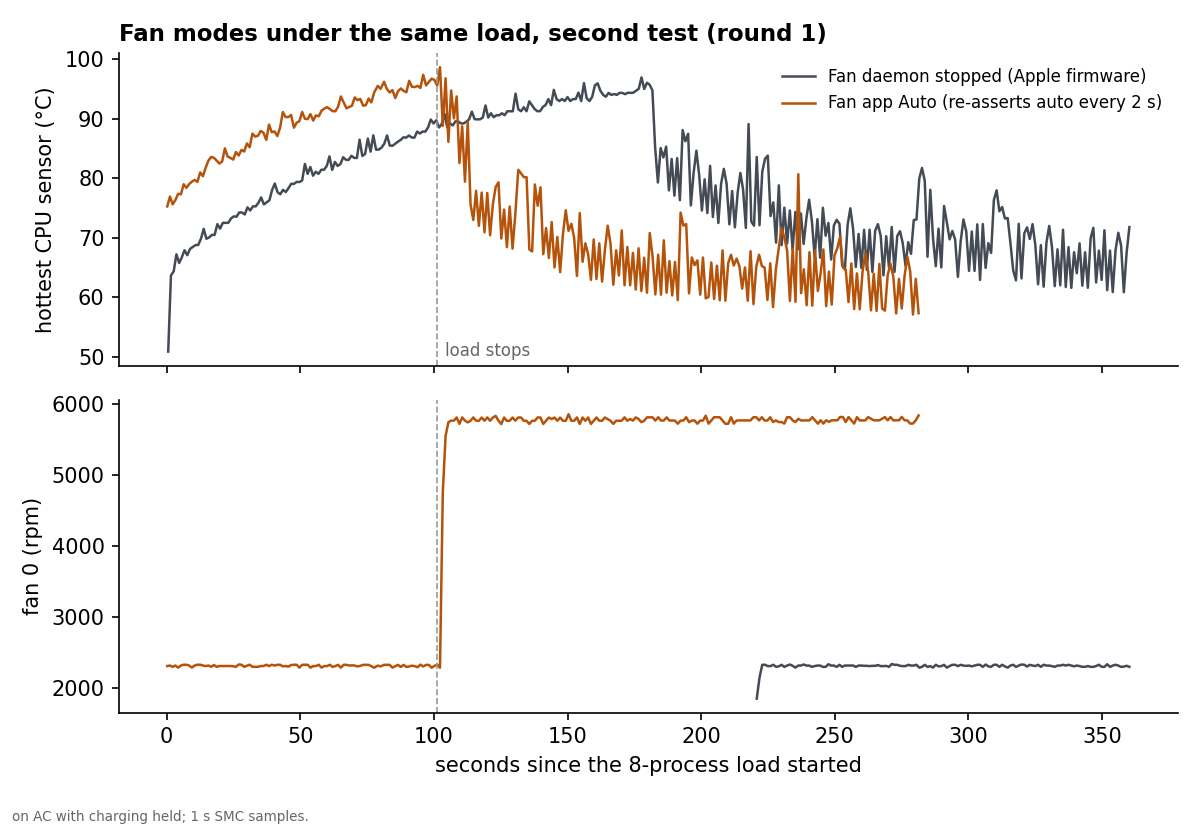
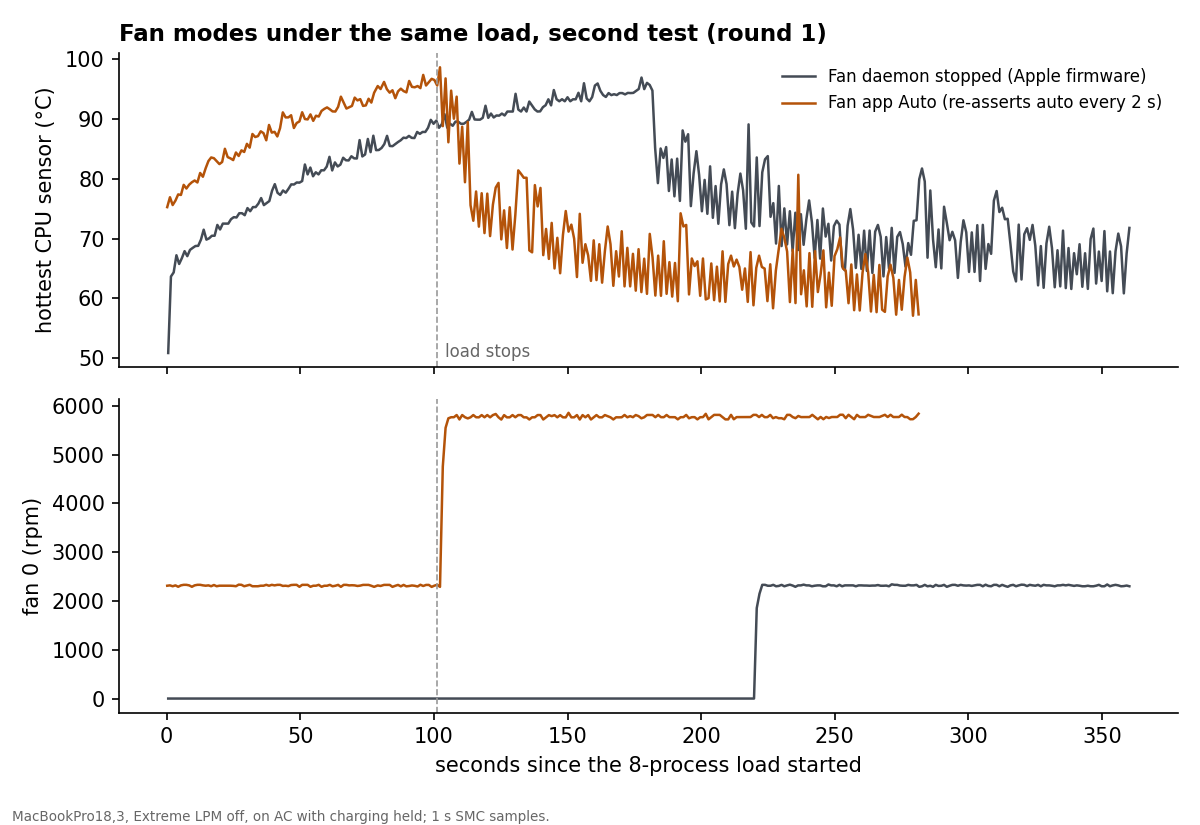
Commit the chart scripts and figures the article uses
- analyze.py: footer "Mean of 3 rounds", system-power title without "display state mixed",
  P-cluster chart without the 8-job group, P-core-share legend off the bars
- battery_analyze.py: n= label above the error bar
- fan_analyze.py: plot 0 rpm readings, footer without MacFanCtl, firmware-test title and label
- job_time.py: single-job time chart with Extreme shown per round
- report/figures: the article's versions (regenerating from these scripts reproduces them byte for byte)

diff --git a/benchmarks/analyze.py b/benchmarks/analyze.py
@@ -219,7 +219,7 @@ def get(sc, c, k):
 # ---------- charts ----------
 plt.rcParams.update({"font.size": 10, "axes.spines.top": False, "axes.spines.right": False, "figure.dpi": 150})
 N = max((s_["n"] for s_ in summary), default=0)
-NOTE = f"MacBookPro18,3 (M1 Pro 8P+2E), macOS 26.6.2, on AC with charging held, fans fixed at max. n = rounds per bar; error bars = SD."
+NOTE = f"MacBookPro18,3 (M1 Pro 8P+2E), macOS 26.6.2, on AC with charging held, fans fixed at max. Mean of 3 rounds; error bars = SD."
 
 
 def bars(sc, k, title, ylabel, fname, fmt="{:.2f}", scale=1.0):
@@ -274,7 +274,7 @@ for sc in ("bg_single", "bg_multi"):
 bars("bg_multi", "lat_p95_ms", "Timer-wakeup latency of an eligible process, p95 (8 jobs running)", "ms late", "bg_multi_latency_p95.png", "{:.1f}")
 
 # grouped: one metric across scenarios, three bars per scenario
-def grouped(k, ylabel, title, fname, scenarios=("idle", "sustained8", "bg_single", "bg_multi"), fmt="{:.1f}", scale=1.0):
+def grouped(k, ylabel, title, fname, scenarios=("idle", "sustained8", "bg_single", "bg_multi"), fmt="{:.1f}", scale=1.0, legend_kw={}):
     scs = [sc for sc in scenarios if any(get(sc, c, k) for c in ORDER)]
     if not scs:
         return
@@ -291,17 +291,18 @@ def grouped(k, ylabel, title, fname, scenarios=("idle", "sustained8", "bg_single
                     color="#222" if h else "#999", rotation=0 if h else 90)
     ax.set_xticks(range(len(scs))); ax.set_xticklabels([{"idle": "idle (apps open)", "sustained8": "8 jobs, 90 s",
         "bg_single": "1 job (fixed work)", "bg_multi": "8 jobs (fixed work)"}.get(sc, sc) for sc in scs])
-    ax.set_ylabel(ylabel); ax.set_title(title, loc="left", fontsize=11, fontweight="bold"); ax.legend(frameon=False, fontsize=8)
+    ax.set_ylabel(ylabel); ax.set_title(title, loc="left", fontsize=11, fontweight="bold"); ax.legend(frameon=False, fontsize=8, **legend_kw)
     fig.text(0.01, 0.01, NOTE, fontsize=6.5, color="#666"); fig.tight_layout(rect=(0, 0.04, 1, 1))
     fig.savefig(os.path.join(FIG, fname)); plt.close(fig)
 
 
-grouped("system_w", "W (SMC PSTR)", "Total system power by scenario (all windows; display state mixed)", "all_system_power.png")
+grouped("system_w", "W (SMC PSTR)", "Total system power by scenario", "all_system_power.png")
 grouped("system_w_dispon", "W (SMC PSTR)", "Total system power by scenario, display on", "all_system_power_display_on.png")
 grouped("system_w_dispoff", "W (SMC PSTR)", "Total system power by scenario, display off", "all_system_power_display_off.png")
 grouped("cpu_w", "W (powermetrics)", "CPU power by scenario", "all_cpu_power.png")
 grouped("cpu_c", "°C", "Hottest CPU sensor (mean) by scenario", "all_cpu_temp.png")
-grouped("p_active", "% of time active", "Performance cores busy (mean of P0/P1 clusters)", "all_p_cluster_busy.png")
+grouped("p_active", "% of time active", "Performance cores busy (mean of P0/P1 clusters)", "all_p_cluster_busy.png",
+        scenarios=("idle", "sustained8", "bg_single"))
 grouped("e_active", "% of time active", "Efficiency cores busy", "all_e_cluster_busy.png")
 
 # processes by where they ran (idle window)
@@ -322,7 +323,7 @@ plt.close(fig)
 
 # job: share of the job's own CPU time on P-cores (self-reported) — the clearest routing evidence
 grouped("pshare", "% of the job's CPU time on P-cores", "Background job: share of its own CPU time on performance cores", "job_pcore_share.png",
-        scenarios=("bg_single", "bg_multi"), fmt="{:.0f}%", scale=100)
+        scenarios=("bg_single", "bg_multi"), fmt="{:.0f}%", scale=100, legend_kw={"loc": "upper center", "bbox_to_anchor": (0.43, 1)})
 
 # time series of system power across the whole run, shaded by condition
 fig, ax = plt.subplots(figsize=(9, 3.4))

diff --git a/benchmarks/fan_analyze.py b/benchmarks/fan_analyze.py
@@ -75,14 +75,19 @@ for mode in LABEL:
         continue
     a = float(ws[0]["start"]); b = float(ws[-1]["end"]); t = seg(a, b)
     ax1.plot([r["epoch"] - a for r in t if r["cpu_max_c"]], [r["cpu_max_c"] for r in t if r["cpu_max_c"]], color=COLOR[mode], label=LABEL[mode], lw=1.2)
-    ax2.plot([r["epoch"] - a for r in t if r["fan0_rpm"]], [r["fan0_rpm"] for r in t if r["fan0_rpm"]], color=COLOR[mode], lw=1.2)
+    ax2.plot([r["epoch"] - a for r in t if r["fan0_rpm"] is not None], [r["fan0_rpm"] for r in t if r["fan0_rpm"] is not None], color=COLOR[mode], lw=1.2)
     load_len = float(ws[0]["end"]) - a
 ax1.axvline(load_len, color="#999", ls="--", lw=0.8); ax2.axvline(load_len, color="#999", ls="--", lw=0.8)
-ax1.text(load_len + 3, ax1.get_ylim()[1] - 3, "load stops", fontsize=8, color="#666", va="top")
+# The firmware test (fan_firmware_test.py) is the second fan test; its hot line fills the top, so the label goes low.
+fw = any(w["mode"] == "firmware" for w in win)
+if fw:
+    ax1.text(load_len + 3, ax1.get_ylim()[0] + 1, "load stops", fontsize=8, color="#666", va="bottom")
+else:
+    ax1.text(load_len + 3, ax1.get_ylim()[1] - 3, "load stops", fontsize=8, color="#666", va="top")
 ax1.set_ylabel("hottest CPU sensor (°C)"); ax2.set_ylabel("fan 0 (rpm)"); ax2.set_xlabel("seconds since the 8-process load started")
-ax1.set_title("Fan modes under the same load (round 1)", loc="left", fontsize=11, fontweight="bold"); ax1.legend(frameon=False, fontsize=8)
+ax1.set_title("Fan modes under the same load" + (", second test" if fw else "") + " (round 1)", loc="left", fontsize=11, fontweight="bold"); ax1.legend(frameon=False, fontsize=8)
 for ax in (ax1, ax2):
     ax.spines["top"].set_visible(False); ax.spines["right"].set_visible(False)
-fig.text(0.01, 0.005, "MacBookPro18,3, Extreme LPM off, on AC with charging held; installed MacFanCtl daemon; 1 s SMC samples.", fontsize=6.5, color="#666")
+fig.text(0.01, 0.005, "MacBookPro18,3, Extreme LPM off, on AC with charging held; 1 s SMC samples.", fontsize=6.5, color="#666")
 fig.tight_layout(rect=(0, 0.03, 1, 1)); fig.savefig(os.path.join(FIG, "fan_modes_timeseries.png"), dpi=150); plt.close(fig)
 print(open(os.path.join(RUN, "fan_summary.md")).read())

diff --git a/benchmarks/job_time.py b/benchmarks/job_time.py
@@ -1,0 +1,41 @@
+#!/opt/homebrew/bin/python3
+"""Chart of the single background job's time: Normal and Low Power Mode as mean ± SD, Extreme as one bar per
+round (its rounds vary 4x, so a mean would hide that). This is report/figures/bg_single_job_time.png.
+Usage: job_time.py results/<run_id>/windows_metrics.csv out.png
+"""
+import csv, statistics as st, sys
+import matplotlib
+matplotlib.use("Agg")
+import matplotlib.pyplot as plt
+
+CSV, OUT = sys.argv[1], sys.argv[2]
+ORDER = ["normal", "lowpower", "extreme"]
+LABEL = {"normal": "Normal", "lowpower": "Low Power Mode", "extreme": "Extreme LPM"}
+COLOR = {"normal": "#8a8f98", "lowpower": "#5b7fa6", "extreme": "#1f6feb"}
+NOTE = ("MacBookPro18,3 (M1 Pro 8P+2E), macOS 26.6.2, on AC with charging held, fans fixed at max.\n"
+        "Normal, Low Power Mode: mean of 3 rounds, error bars = SD. Extreme: each round.")
+
+t = {c: [] for c in ORDER}
+for r in csv.DictReader(open(CSV)):
+    if r["scenario"] == "bg_single" and r["job_s"]:
+        t[r["condition"]].append(float(r["job_s"]))
+
+plt.rcParams.update({"font.size": 10, "axes.spines.top": False, "axes.spines.right": False, "figure.dpi": 150})
+fig, ax = plt.subplots(figsize=(6.4, 3.8))
+W = 0.8
+for i, c in enumerate(ORDER[:2]):
+    m, sd = st.mean(t[c]), st.stdev(t[c])
+    ax.bar(i, m, W, yerr=sd, capsize=4, color=COLOR[c])
+    ax.annotate(f"{m:.1f} s", (i, m + sd), ha="center", va="bottom", xytext=(0, 4), textcoords="offset points", fontsize=8)
+runs = sorted(t["extreme"])
+w = W / len(runs)
+for j, y in enumerate(runs):
+    x = 2 - W / 2 + w * (j + 0.5)
+    ax.bar(x, y, w * 0.9, color=COLOR["extreme"])
+    ax.annotate(f"{y:.0f} s", (x, y), ha="center", va="bottom", xytext=(0, 4), textcoords="offset points", fontsize=8)
+ax.set_xticks(range(3), [LABEL[c] for c in ORDER])
+ax.set_ylabel("seconds"); ax.set_title("Time to finish one background job", loc="left", fontsize=11, fontweight="bold")
+ax.set_ylim(0, max(runs) * 1.15)
+fig.text(0.01, 0.01, NOTE, fontsize=6.5, color="#666")
+fig.tight_layout(rect=(0, 0.07, 1, 1)); fig.savefig(OUT); plt.close(fig)
+print({c: v for c, v in t.items()})

diff --git a/benchmarks/battery_analyze.py b/benchmarks/battery_analyze.py
@@ -59,7 +59,7 @@ cs = [c for c in ORDER if c in summ]
 b = ax.bar([LABEL[c] for c in cs], [summ[c][0] for c in cs], yerr=[summ[c][1] for c in cs], capsize=4,
            color=["#8a8f98", "#5b7fa6", "#1f6feb"][:len(cs)])
 for rect, c in zip(b, cs):
-    ax.annotate(f"{summ[c][0]:.0f} mAh/h\n{summ[c][3]:.1f} W system\nn={summ[c][2]}", (rect.get_x() + rect.get_width() / 2, summ[c][0]), ha="center", va="bottom",
+    ax.annotate(f"{summ[c][0]:.0f} mAh/h\n{summ[c][3]:.1f} W system\nn={summ[c][2]}", (rect.get_x() + rect.get_width() / 2, summ[c][0] + summ[c][1]), ha="center", va="bottom",
                 xytext=(0, 4), textcoords="offset points", fontsize=8)
 ax.set_ylabel("charge used per hour (mAh/h, ioreg)"); ax.spines["top"].set_visible(False); ax.spines["right"].set_visible(False)
 ax.set_ylim(0, max(summ[c][0] + summ[c][1] for c in cs) * 1.35)

diff --git a/benchmarks/README.md b/benchmarks/README.md
@@ -37,6 +37,7 @@ per-core residency of an individual process over time (only cumulative P-core ti
 | `fan_test.py` | fan app Auto vs Curve vs Manual 100% under the same heat load; overheat guard; restores the config | fan app config only |
 | `fan_firmware_test.py` | fan daemon stopped (pure Apple firmware) vs the app's Auto mode, Low Power Mode forced off | fan daemon stop/start, `pmset` (root helper) |
 | `reliability_test.py` | daemon `kill -9` and sleep/wake with process-policy checks against the change record | Battery Tool mode, daemon restart, sleep (root helper) |
+| `job_time.py` | single-job time chart for the report (Extreme shown per round) | no |
 | `battery_analyze.py` | battery-test summary: charge used per hour (ioreg), system power, estimated runtime | no |
 | `frontmost_latency.py` | time from bringing a demoted app to the front until it is restored (Extreme mode on) | no (opens TextEdit) |
 
